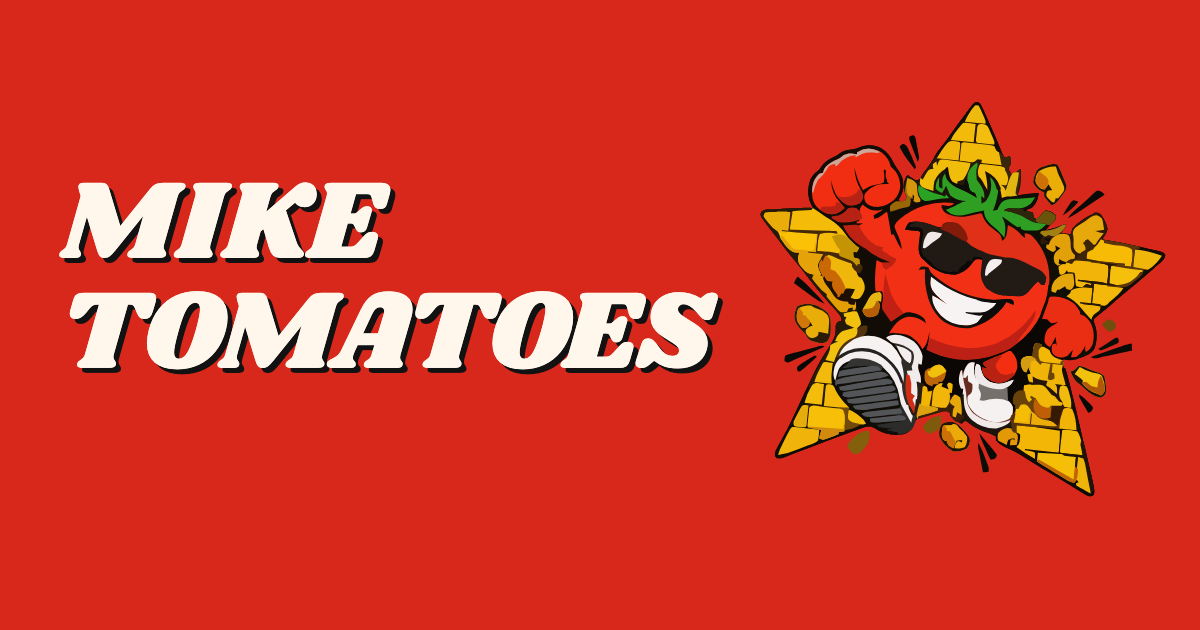
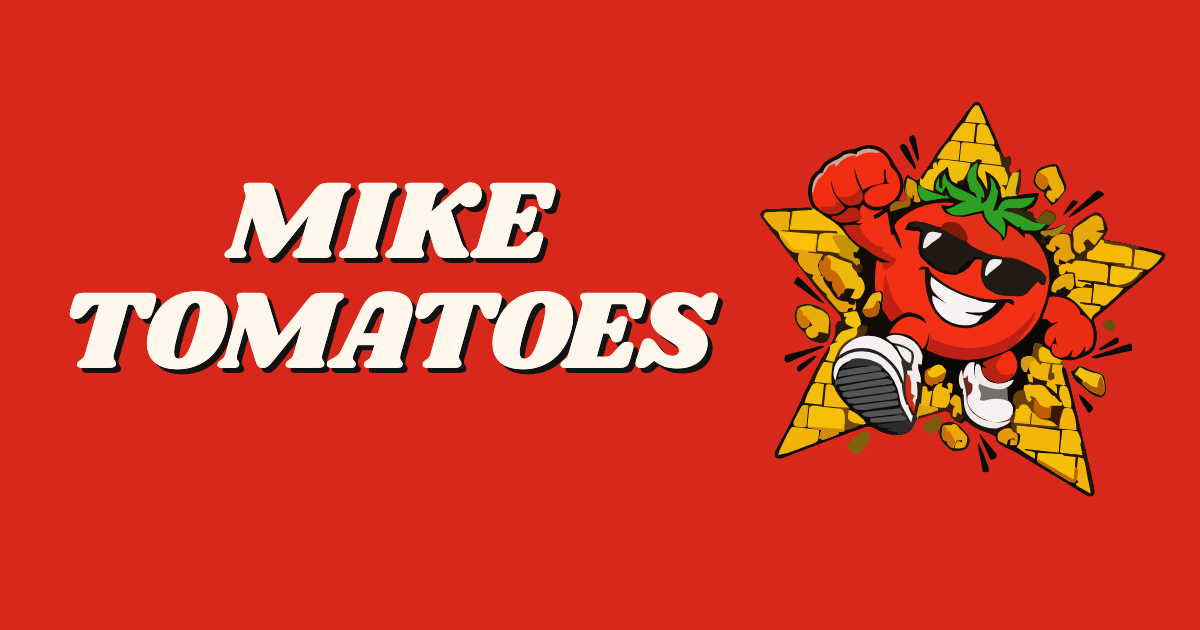
Center MIKE over TOMATOES in the share image

Changed region(s): [[0.0308, 0.2714, 0.4933, 0.4222]]

diff --git a/index.html b/index.html
@@ -9,7 +9,7 @@
 <meta property="og:site_name" content="MikeTomatoes">
 <meta property="og:type" content="website">
 <meta property="og:url" content="http://www.miketomatoes.com/">
-<meta property="og:image" content="https://raw.githubusercontent.com/michaelpiech/miketomatoes/main/assets/og/share.png?v=1">
+<meta property="og:image" content="https://raw.githubusercontent.com/michaelpiech/miketomatoes/main/assets/og/share.png?v=2">
 <meta property="og:image:width" content="1200">
 <meta property="og:image:height" content="630">
 <meta property="og:image:alt" content="MikeTomatoes">

diff --git a/privacy.html b/privacy.html
@@ -9,7 +9,7 @@
 <meta property="og:site_name" content="MikeTomatoes">
 <meta property="og:type" content="website">
 <meta property="og:url" content="http://www.miketomatoes.com/">
-<meta property="og:image" content="https://raw.githubusercontent.com/michaelpiech/miketomatoes/main/assets/og/share.png?v=1">
+<meta property="og:image" content="https://raw.githubusercontent.com/michaelpiech/miketomatoes/main/assets/og/share.png?v=2">
 <meta property="og:image:width" content="1200">
 <meta property="og:image:height" content="630">
 <meta property="og:image:alt" content="MikeTomatoes">
